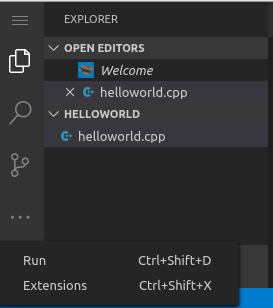
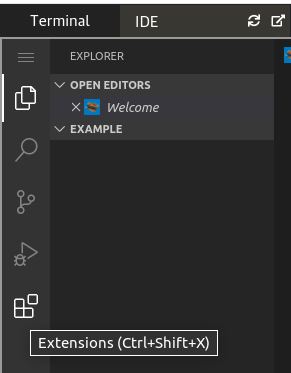
Fixing the Step 1

diff --git a/htmlcssjs-helloworld/step1.md b/htmlcssjs-helloworld/step1.md
@@ -4,7 +4,7 @@
 
 ![VS Code IDE Tab](./assets/Katacoda_Iframe_IDE_VSCode_Tab.png)
 
-1.2. No VS Code, clique no ícone de três pontos no menu lateral direito para acessar mais opções do menu e, em seguida, clique na opção "Extensions".
+1.2. No VS Code, clique no ícone referente a opção "Extensions", no menu lateral direito.
 
 ![VS Code Menu Extensions](./assets/VSCode_menu_Extensions.png)
 
